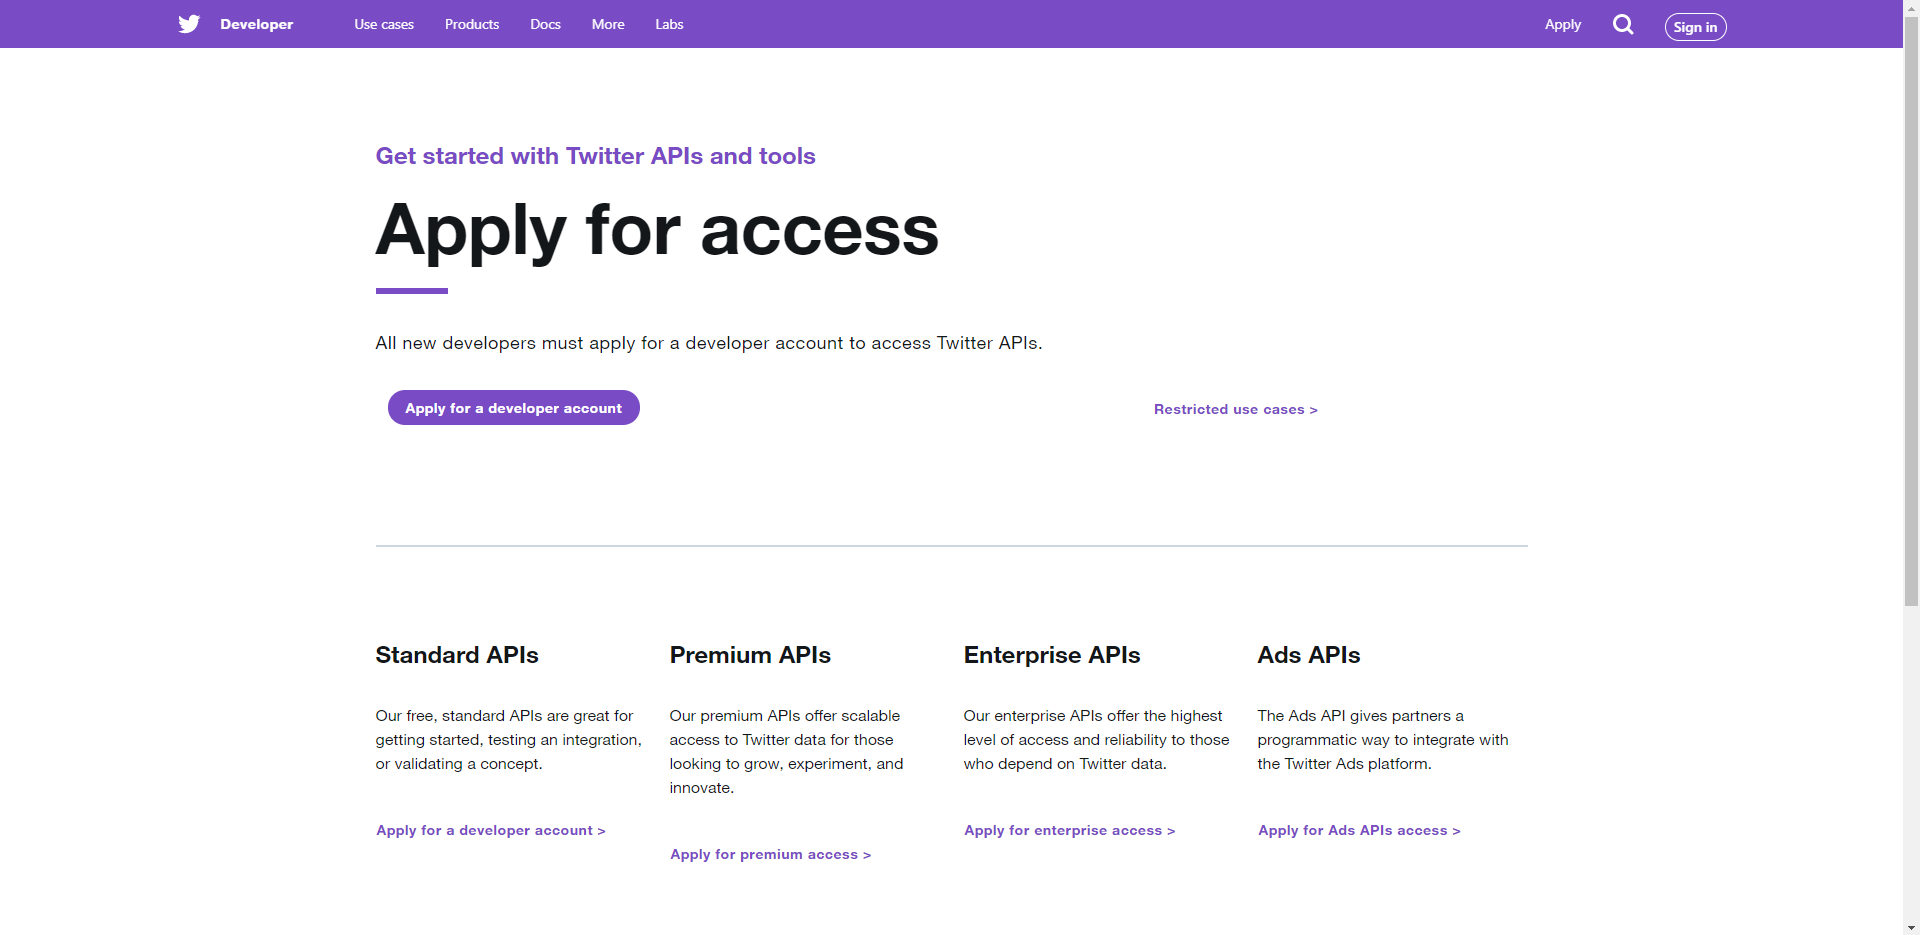
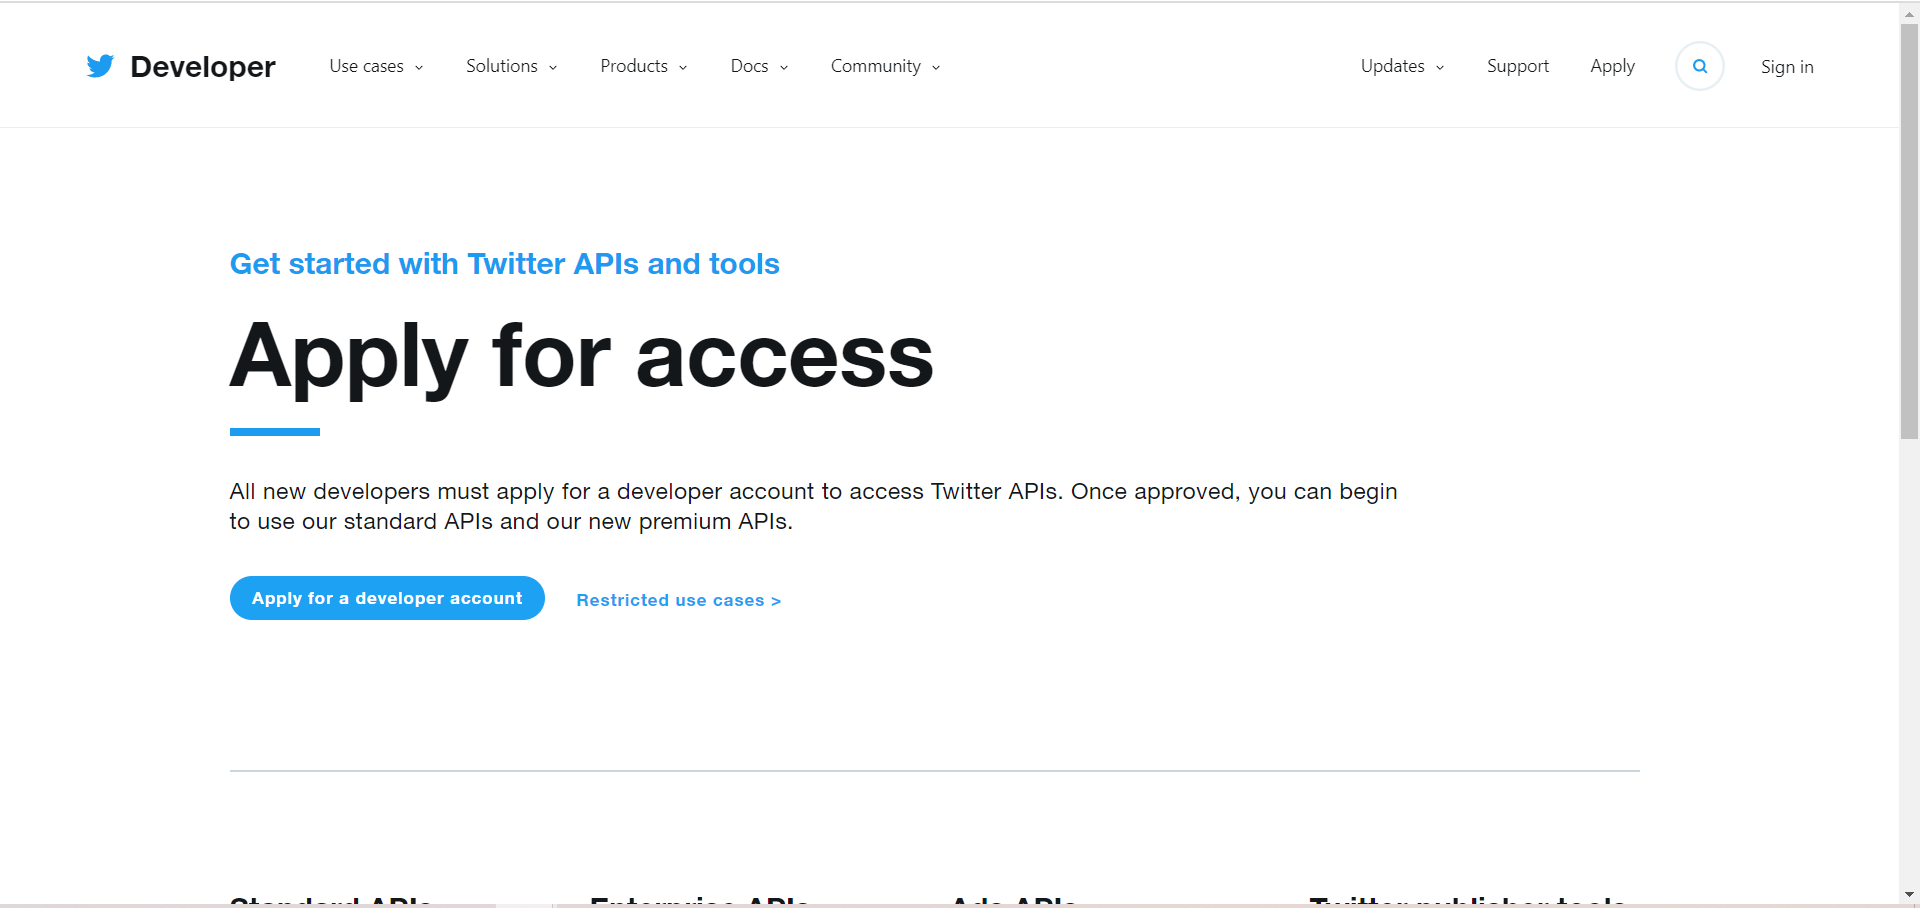
update readme.md for lab2

diff --git a/labs/lab02/readme.md b/labs/lab02/readme.md
@@ -38,23 +38,27 @@ We usually need to install libraries like tweepy using command prompt (if a wind
 !python -m pip install tweepy
 ```
 
-To use the tweepy library, you need to register a Twitter developer account [here](https://developer.twitter.com/en).
+To use the tweepy library, you need to register a Twitter developer account [here](https://developer.twitter.com/en/apply-for-access).
 
 ![](img/twitter_dev.png)
 
-In order to register your account, you will be prompted to answer a series of questions. Please answer those that are required to fill in and you can ignore optional questions. Once you finish registering your account, you can apply for a Twitter app. It is located on the top right corner of the page. Click on `Apps`.
+In order to register your account, you will be prompted to answer a series of questions. Please answer those that are required to fill in and you can ignore optional questions. Once you finish registering your account, you can apply for a Twitter app. First of all, you will need to click on `Developer Portal` which is located on the top right corner of the page.
 
 ![](img/dev_acc.png)
 
-Then, you will see a page with a list of apps that you've created for getting Twitter API, but for now, the list should be empty. In order to register for Twitter API, click on `Create an app`.
+Then, you will enter developer portal. On the left bar, you can click on `Projects &  Apps` for checking the list of apps that you've created for getting Twitter API, but for now, the list should be empty. In order to register for Twitter API, click on `Create an app` which is under the `Standalone Apps`.
 
-You will be prompted to fill in the app details. Here, you are required to fill in: `App name`, `Application description`, `Website URLs`, and `'Tell us how this app will be used'`. If you are not sure what to put for the website URLs, you may enter your SNS profile URLs, such as your Facebook page, LinkedIn page, etc.
+![](img/creat_app.png)
+
+You will be prompted to fill in the app details. Here, you are required to fill in: `App name`.
 
 ![](img/app_details.png)
 
-After you fill in all the required fields, you may click on `Create`. Twitter takes some time to process your information to validate your access to the Twitter API.
+After you fill in all the required fields, you may click on `Create`. Twitter takes some time to process your information to validate your access to the Twitter API. Then you will be able to see your keys and tokens.
 
-Once you are registered, you can finally get your own keys and tokens. Go to the `App Detail` of the app you just created. Click on the tab `Keys and tokens`, and you should be able to see all the keys and tokens required to use the Twitter API.
+Once you are registered, you could check your own keys and tokens again by click on your app-name which is under your app list. Go to the `App Detail` of the app you just created. Click on the tab `Keys and tokens`, and you should be able to see all the keys and tokens required to use the Twitter API.
+
+![](img/app_keys.png)
 
 Copy and paste the keys and tokens you received into corresponding parameters in the code below:
 
